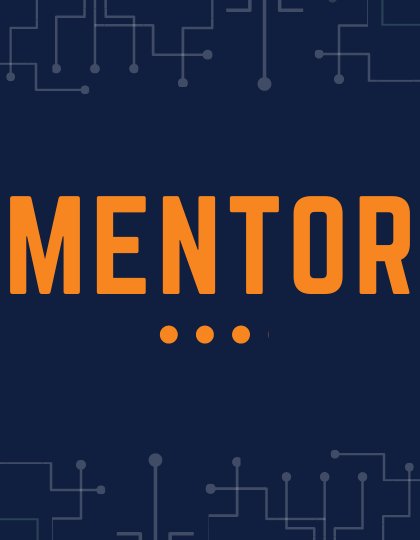
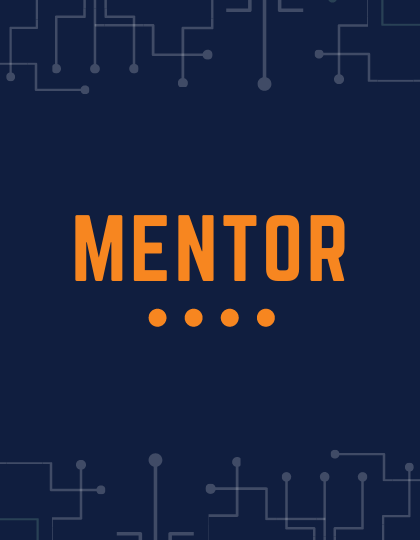
mentor card changed

Changed region(s): [[0.0, 0.3556, 0.9905, 0.6519]]

diff --git a/src/Components/Registration/Card.css b/src/Components/Registration/Card.css
@@ -209,7 +209,7 @@ h1 {
 } */
 
 .example-2 .wrapper {
-  background: url("https://i.ibb.co/xsDT4sY/CARD1.png") center/cover no-repeat;
+  background: url("https://i.ibb.co/vPrMYRm/1.png") center/cover no-repeat;
 }
 
 .example-2 .wrapper:hover .menu-content span {
@@ -283,7 +283,7 @@ h1 {
 /* card 2 */
 
 .example-1 .wrapper {
-  background: url("https://i.ibb.co/5L6Rg0T/CARD2.png") center/cover no-repeat;
+  background: url("https://i.ibb.co/yPTHQB8/2.png") center/cover no-repeat;
 }
 
 .example-1 .wrapper:hover .menu-content span {
